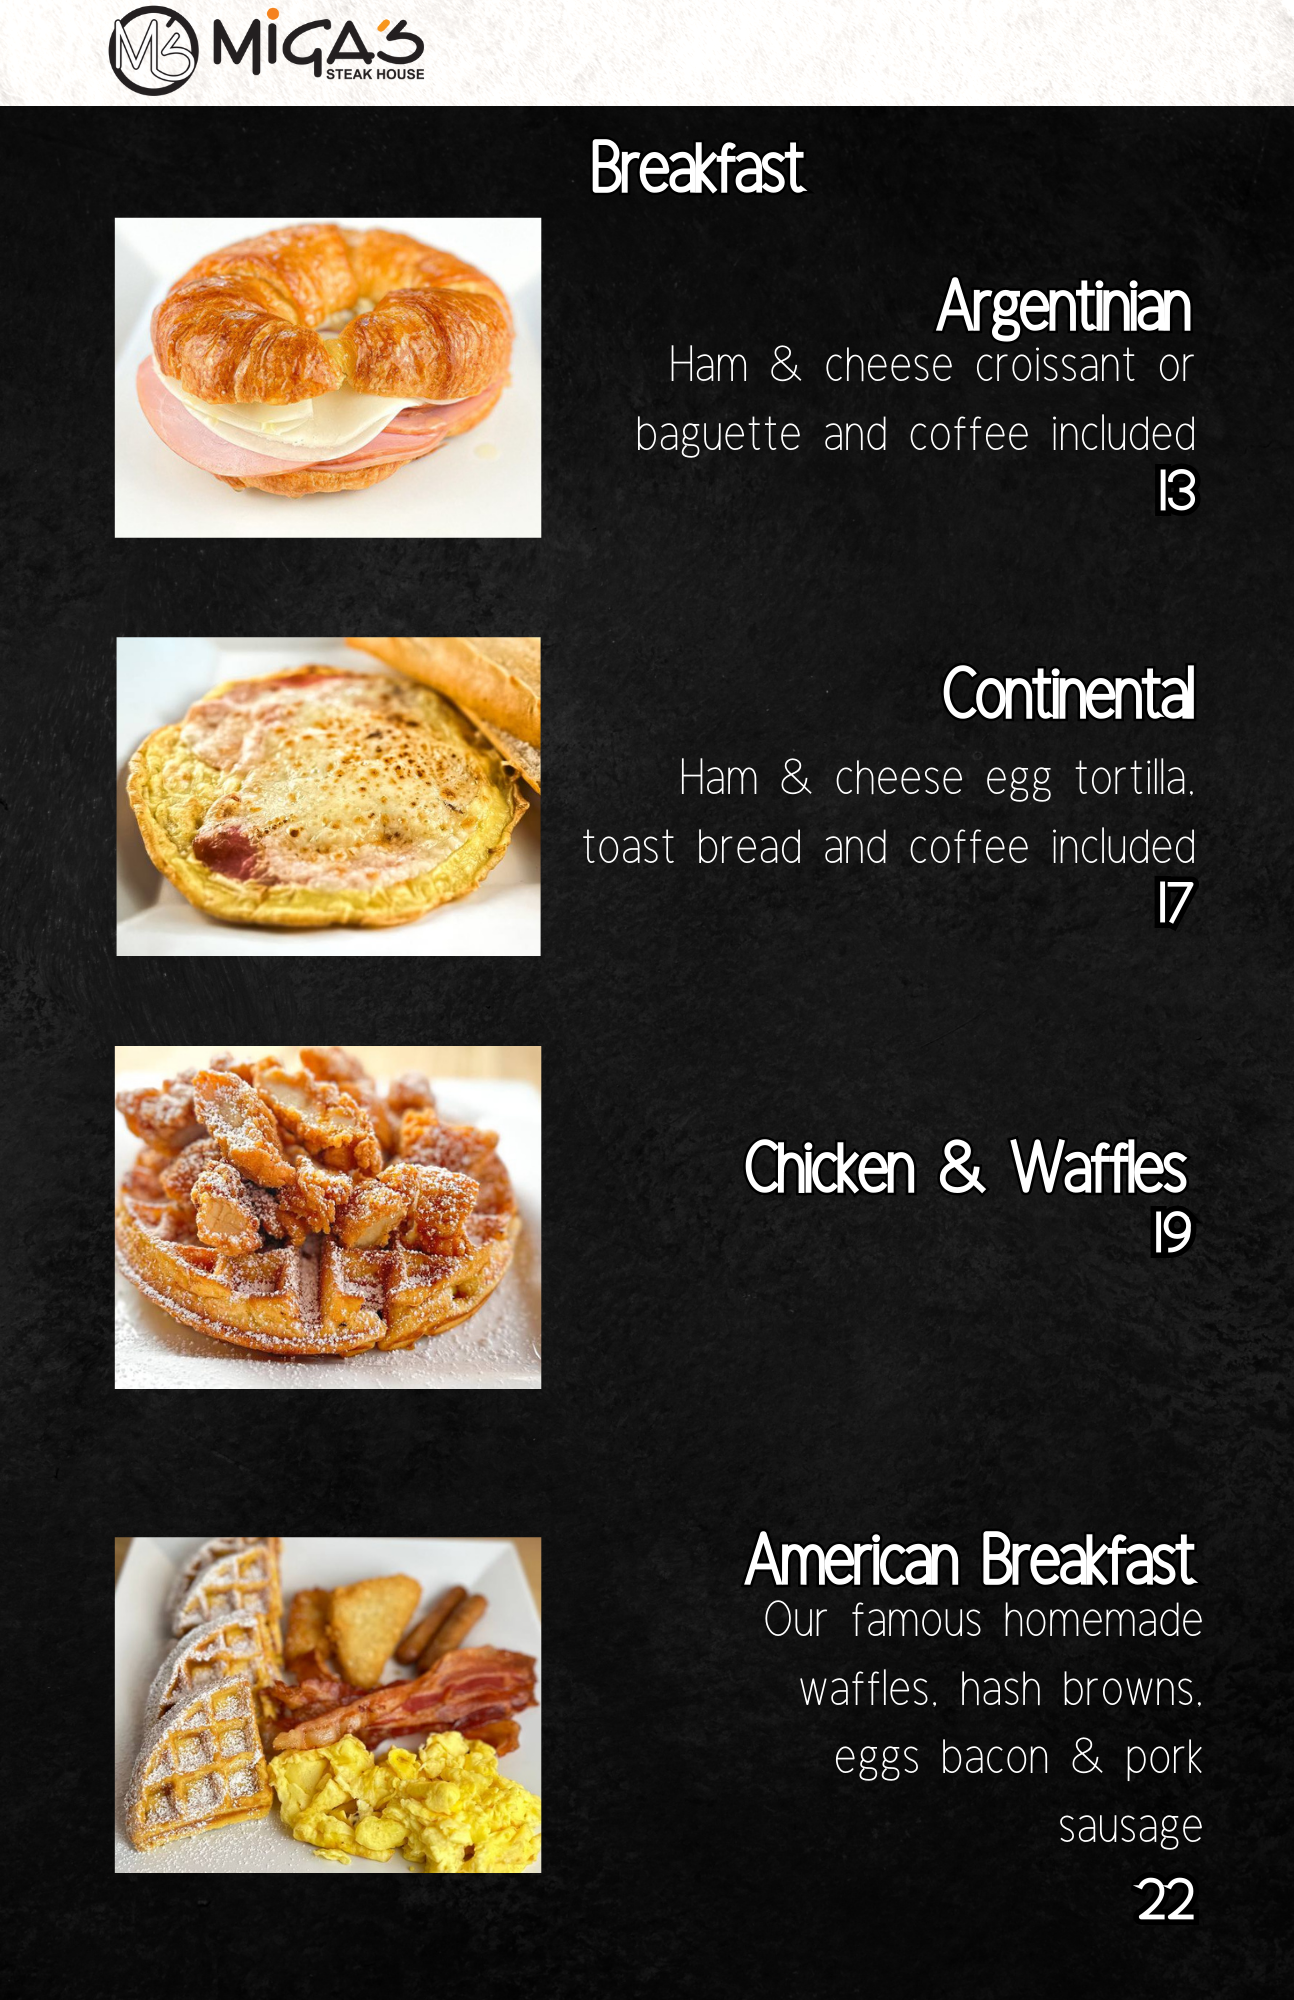
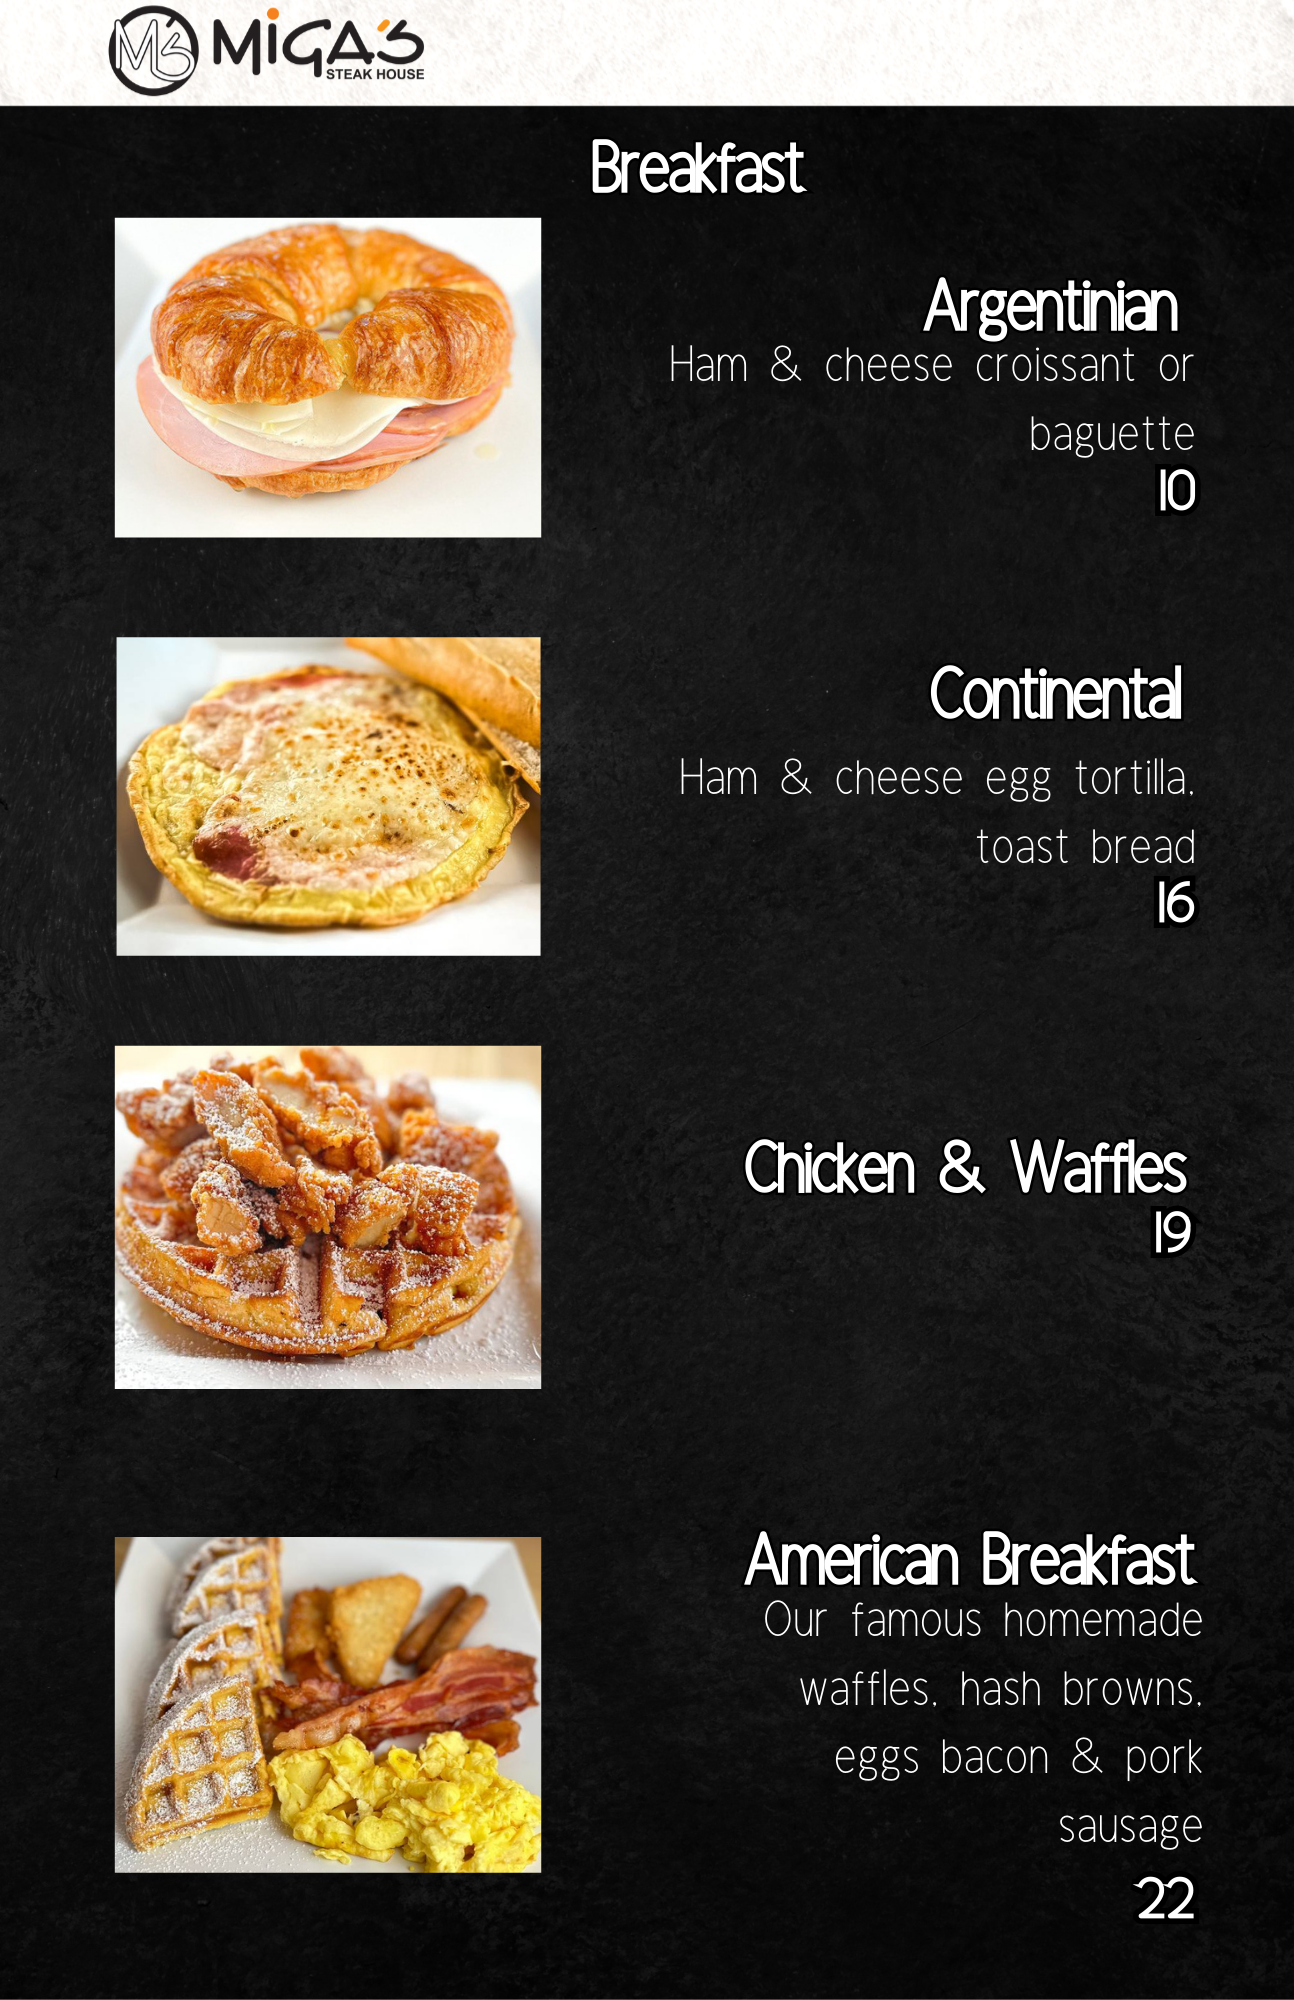
added local backup to fetch images due to fetch spam in contentful

diff --git a/src/hooks/useMenuImages.js b/src/hooks/useMenuImages.js
@@ -1,73 +1,108 @@
+// "use client";
+
+// import { useEffect, useMemo, useRef, useState } from "react";
+// import { createClient } from "contentful";
+
+// export function useMenuImages(tagId) {
+//   const [images, setImages] = useState([]);
+//   const [loading, setLoading] = useState(false);
+//   const [error, setError] = useState(null);
+
+//   const retryTimeout = useRef(null);
+//   const cacheRef = useRef({});
+
+//   const client = useMemo(() => {
+//     return createClient({
+//       space: process.env.NEXT_PUBLIC_CONTENTFUL_SPACE_ID,
+//       accessToken: process.env.NEXT_PUBLIC_CONTENTFUL_ACCESS_TOKEN,
+//     });
+//   }, []);
+
+//   useEffect(() => {
+//     if (!tagId) return;
+
+//     // serve from cache (prevents re-fetching when switching back to a tab)
+//     if (cacheRef.current[tagId]) {
+//       setImages(cacheRef.current[tagId]);
+//       return;
+//     }
+
+//     let cancelled = false;
+
+//     const fetchMenuImages = async () => {
+//       try {
+//         setLoading(true);
+//         setError(null);
+
+//         const response = await client.getAssets({
+//           "metadata.tags.sys.id[in]": tagId,
+//           order: "-sys.createdAt",
+//         });
+
+//         const nextImages = response.items.map((item) => ({
+//           title: item.fields?.title || "Menu",
+//           url: `https:${item.fields?.file?.url}`,
+//         }));
+
+//         if (!cancelled) {
+//           cacheRef.current[tagId] = nextImages;
+//           setImages(nextImages);
+//         }
+//       } catch (err) {
+//         if (!cancelled) setError(err);
+
+//         // don’t stack retries forever
+//         if (!cancelled) {
+//           if (retryTimeout.current) window.clearTimeout(retryTimeout.current);
+//           retryTimeout.current = window.setTimeout(fetchMenuImages, 3000);
+//         }
+//       } finally {
+//         if (!cancelled) setLoading(false);
+//       }
+//     };
+
+//     fetchMenuImages();
+
+//     return () => {
+//       cancelled = true;
+//       if (retryTimeout.current) window.clearTimeout(retryTimeout.current);
+//     };
+//   }, [tagId, client]);
+
+//   return { images, loading, error };
+// }
+
+"use client";
 "use client";
 
-import { useEffect, useMemo, useRef, useState } from "react";
-import { createClient } from "contentful";
+import { useEffect, useRef, useState } from "react";
+import { localMenuImagesBySectionId } from "@/utils/menuLocalImages";
 
-export function useMenuImages(tagId) {
+export function useMenuImages(sectionId) {
   const [images, setImages] = useState([]);
   const [loading, setLoading] = useState(false);
   const [error, setError] = useState(null);
-
-  const retryTimeout = useRef(null);
+  
   const cacheRef = useRef({});
 
-  const client = useMemo(() => {
-    return createClient({
-      space: process.env.NEXT_PUBLIC_CONTENTFUL_SPACE_ID,
-      accessToken: process.env.NEXT_PUBLIC_CONTENTFUL_ACCESS_TOKEN,
-    });
-  }, []);
-
   useEffect(() => {
-    if (!tagId) return;
+    if (!sectionId) return;
 
-    // serve from cache (prevents re-fetching when switching back to a tab)
-    if (cacheRef.current[tagId]) {
-      setImages(cacheRef.current[tagId]);
+    // Serve from cache
+    if (cacheRef.current[sectionId]) {
+      setImages(cacheRef.current[sectionId]);
       return;
     }
 
-    let cancelled = false;
+    setLoading(true);
+    setError(null);
 
-    const fetchMenuImages = async () => {
-      try {
-        setLoading(true);
-        setError(null);
+    const nextImages = localMenuImagesBySectionId[sectionId] || [];
 
-        const response = await client.getAssets({
-          "metadata.tags.sys.id[in]": tagId,
-          order: "-sys.createdAt",
-        });
-
-        const nextImages = response.items.map((item) => ({
-          title: item.fields?.title || "Menu",
-          url: `https:${item.fields?.file?.url}`,
-        }));
-
-        if (!cancelled) {
-          cacheRef.current[tagId] = nextImages;
-          setImages(nextImages);
-        }
-      } catch (err) {
-        if (!cancelled) setError(err);
-
-        // don’t stack retries forever
-        if (!cancelled) {
-          if (retryTimeout.current) window.clearTimeout(retryTimeout.current);
-          retryTimeout.current = window.setTimeout(fetchMenuImages, 3000);
-        }
-      } finally {
-        if (!cancelled) setLoading(false);
-      }
-    };
-
-    fetchMenuImages();
-
-    return () => {
-      cancelled = true;
-      if (retryTimeout.current) window.clearTimeout(retryTimeout.current);
-    };
-  }, [tagId, client]);
+    cacheRef.current[sectionId] = nextImages;
+    setImages(nextImages);
+    setLoading(false);
+  }, [sectionId]);
 
   return { images, loading, error };
 }

diff --git a/src/utils/menuLocalImages.js b/src/utils/menuLocalImages.js
@@ -1,0 +1,14 @@
+import { menuImgsSectionsArray } from "@/utils/constants";
+
+const EXT = "png"; // change if needed
+const BASE_PATH = "/assets/menuImg";
+
+export const localMenuImagesBySectionId = Object.fromEntries(
+  menuImgsSectionsArray.map((section) => [
+    section.id,
+    section.file.map((fileName) => ({
+      title: section.name,
+      url: `${BASE_PATH}/${fileName}.${EXT}`,
+    })),
+  ])
+);

diff --git a/src/utils/constants.js b/src/utils/constants.js
@@ -72,5 +72,5 @@ export const menuImgsSectionsArray = [
   { id: "veganFish", name: "Vegan & Fish", file: ["vegan", "fish"] },
 
   { id: "desserts", name: "Desserts", file: ["desserts"] },
-  { id: "drinks", name: "Drinks", file: ["drinks", "drinks1"] },
+  { id: "drinks", name: "Drinks", file: ["drinks"] },
 ];
